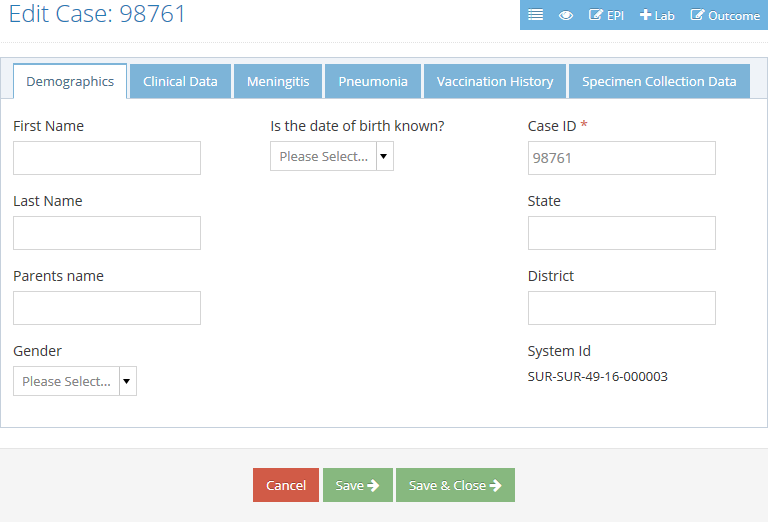
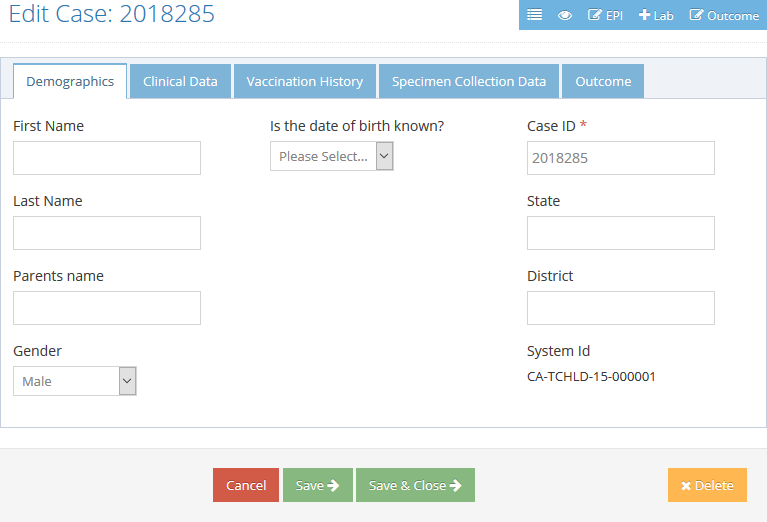
Update documentation
Link sections, document changed behaviour, fix headers without a space after ###, refresh and add new screenshots.

diff --git a/app/Resources/doc/web.md b/app/Resources/doc/web.md
@@ -1,27 +1,48 @@
 Cases and Data Entry
 ====================
 
-1. [Recent Cases list](#recent-cases-list)
-2. [Finding cases](#finding-buttons)
-3. [Creating cases](#creating-cases)
-4. [Modifying cases](#modifying-cases)
+1. [Finding and listing cases](#finding-and-listing-cases)
+2. [Creating cases](#creating-cases)
+3. [Modifying cases](#modifying-cases)
+4. [Deleting cases](#deleting-cases)
 5. [Zero Reporting](#zero-reporting)
 6. [Reports](#reports)
 
-Recent Cases list
------------------
+Finding and listing Cases
+-------------------------
 
 To view the list of cases, click **Data Entry** on the sidebar menu, and then **IBD** or
 **Rotavirus**.
 
 ![Sidebar Menu: Data Entry](images/sidebarDataEntry.png)
 
-Cases are listed in descending order of creation; i.e. newest cases at the top. Only
-cases that your user account has permission to access are included in the Recent Cases list.
+The **Recent Cases** page will be displayed, showing **Create/Edit Case** and **Filters** panes.
+
+![Recent Cases page](images/recentCasesPage.png)
+
+Enter or select the criteria for cases you want to see in the **Filters** panel on the right side
+of the page. The result list will include all cases where the respective field contains whatever you
+type here. You can enter a partial value for **Case ID**.  These fields are not case-sensitive.
+
+In the **Region**, **Country**, and **Site** fields, you can hold down `CTRL` and click to select
+multiple values. The result list will include results that match any of the selected values. Note
+that each of these fields only appears in the **Filters** panel if your user account has been
+administratively configured to allow access to cases with multiple possible values for that field;
+for example, if your account is restricted to cases in a particular country, the ability to filter
+on country would be irrelevant, so the Country field is not displayed.
+
+You can view all recent cases by leaving all the filter fields blank or unselected.
+
+Click **Find** when you are ready to proceed. The page will refresh and the list of matching cases
+will be displayed. Cases are listed in descending order of creation; i.e. newest cases at the top.
+Only cases that your user account has permission to access are included in the Recent Cases list.
 
 ![Recent Cases list](images/recentCases.png)
 
-###Actions buttons
+Any filters you apply remain in effect throughout case creation and editing operations. To clear the
+filters, click the **Reset** button in the **Filters** panel.
+
+### Actions buttons
 
 Actions buttons are displayed in the **Actions** column. To view the details of a specific case in
 the list, click the **View** (eye) button. To edit the case's epidemiology details or outcome, click
@@ -34,8 +55,8 @@ button. Click the gear button in order to see all the Actions buttons.
 
 ![Gear button](images/gearButton.png)
 
-Actions buttons also appear in the upper-right corner of case editing pages. A **List** button is
-included here for returning to the cases list.
+Actions buttons also appear in the upper-right corner of case View and Edit pages. A **List** button
+is included here for returning to the cases list.
 
 ![Actions buttons on edit page](images/actionsButtonsEdit.png)
 
@@ -50,7 +71,7 @@ indicated detail record of the case.
 
 For more information on editing a case, see the **Modifying cases** section below.
 
-###Case completion flags
+### Case completion flags
 
 The **Status** column displays green, orange, or red **EPI** and **LAB** flags. A green flag
 indicates that the associated epidemiology or lab details are complete and have passed error checks.
@@ -59,45 +80,18 @@ present or an error has been found.
 
 ![Case completion flags](images/completionFlags.png)
 
-Finding cases
--------------
-
-To find a specific case, enter or select criteria in the **Filters** panel to the right of the
-Recent Cases list and click **Find**. The list will be refreshed, showing only cases that match your
-filter criteria.
-
-![Filters panel](images/filtersPanel.png)
-
-You can enter partial values for **System ID** and **Case ID**. The result list will include all
-cases where the respective field contains whatever you type here. These fields are not case-
-sensitive.
-
-In the **Region**, **Country**, and **Site** fields, you can hold down `CTRL` and click to select
-multiple values. The result list will include results that match any of the selected values. Note
-that each of these fields only appears in the **Filters** panel if your user account has been
-administratively configured to allow access to cases with multiple possible values for that field;
-for example, if your account is restricted to cases in a particular country, the ability to filter
-on country would be irrelevant, so the Country field is not displayed.
-
-Any filters you apply remain in effect throughout case creation and editing operations. To clear the
-filters and return to the full list of cases, click the **Reset** button in the **Filters** panel.
-
 Creating cases
 --------------
 
-IDB and Rotavirus cases are created from their respective Recent Cases list pages.
+IDB and Rotavirus cases are created from the **Recent Cases** page, which is accessed as described
+under [Finding and listing cases](#finding-and-listing-cases).
 
-
-1. Click the green **Create/Edit** button above the Recent Cases list.
-
-	![Recent Cases Create Button](images/recentCasesCreate.png)
-
-2. In the **Create Case** pop-up dialog, enter the **Case ID**.
+1. In the **Create Case** pane, enter the **Case ID**.
 
    ![Create case dialog](images/createCase.png)
 
-3. The options included in the **Type** drop-down list depend on your user account permissions. If
-**Case** is the only option displayed, select it.
+3. The options included in the **What type of case data?** drop-down list depend on your user
+account permissions. If **Case** is the only option displayed, select it.
   
    If your user account permissions allow it, you may also see **Site Lab**, **RRL** (Regional
    Reference Lab), or **NL** (National Lab) options. If you select one of these options, you will be
@@ -116,13 +110,13 @@ Modifying cases
 ---------------
 
 If you know the Case ID and Site of the case you want to modify, you can go directly to the case
-editing page by the same procedure as described above in the *Creating cases* section. Otherwise,
-locate the case in the Recent Cases list and use the buttons in the **Actions** column, as described
-in **Recent Cases list: Actions buttons** above.
+editing page by the same procedure as described above in the [Creating cases](#creating-cases)
+section. Otherwise, locate the case in the Recent Cases list and use the buttons in the **Actions**
+column, as described in **Recent Cases list: Actions buttons** above.
 
 ![Actions Buttons for Modifying Cases](images/modifyingCasesActionButtons.png)
 
-###Adding or editing lab details
+### Adding or editing lab details
 
 The **Add Lab** or **Edit Lab** button appears in the **Actions** column if your user account has
 permission to add and edit Site Lab details. The **Add RRL** and **Add NL** buttons appear if you
@@ -133,11 +127,22 @@ detail record of the case.
 
 ![Actions Buttons for Lab Details](images/actionsButtonsLabDetails.png)
 
+Deleting Cases
+==============
+
+To delete a case, find it in the Recent Cases list as [described above](#finding-and-listing-cases)
+and click on its EPI edit button. When the case is displayed, click the **Delete** button below the
+details.
+
+![Delete Case](images/caseDelete.png)
+
+A confirmation dialog will be displayed. Click **OK** to delete the case.
+
 Zero Reporting
 ==============
 
-In order for **Consistent Reporting** column in **Site Performance** reports to be accurate, it is
-necessary to tell the system what happened for months with no reports. No reports in a month can
+In order for the **Consistent Reporting** column in **Site Performance** reports to be accurate, it
+is necessary to tell the system what happened for months with no reports. No reports in a month can
 indicate either that the number of cases *was* reported and the number was zero, or that the number
 of cases *was not* reported.
 
@@ -145,20 +150,16 @@ Click **Data Entry** and then **Zero Reporting** on the sidebar menu.
 
 ![Sidebar Menu: Zero Reporting](images/sidebarZeroReporting.png)
 
-Click the **Filters** button on the **Zero Reporting** header.
-
-![Zero Reporting Header](images/zeroReportingHeader.png)
-
 Select the desired **Type** of case (IBD or RotaVirus) and a range of dates, then click **Submit**.
+
+Note that selecting a large date range may cause the table to overflow the right side of the browser
+window and not be displayed neatly.
 
 ![Zero Reporting Filters](images/zeroReportingFilters.png)
 
 A list of Sites will be displayed, along with case counts for each month in the selected range.
 Wherever the number of cases for a site is zero for a given month, a drop-down selector is displayed
 with **Zero** and **Non Report** options available.
-
-Note that selecting a large date range may cause the table to overflow the right side of the browser
-window and not be displayed neatly.
 
 ![Zero Reporting: Selecting Options](images/zeroReportingSelecting.png)
 

diff --git a/app/Resources/doc/sysadmin.md b/app/Resources/doc/sysadmin.md
@@ -4,10 +4,10 @@ Administration
 Access the system Administration page by clicking **Administration** in the sidebar menu and then
 **Administration** in the sub-menu.
 
-1. All sections
-2. User specific
-3. Reference lab specific
-4. Import Map specific
+1. [All sections](#all-sections)
+2. [User specific](#user-specific)
+3. [Reference lab specific](#reference-lab-specific)
+4. [Import Map specific](#import-map-specific)
 
 All sections
 ------------
@@ -34,14 +34,20 @@ search.
 The currently displayed list of items can be downloaded in json, xml, csv, or xls format using the
 Download links provided at the bottom of the list.
 
-###Adding and editing items
+![Admin List Download](images/adminListDownload.png)
+
+### Adding and editing items
 
 A new item can be added by clicking the **Add new** button in the appropriate section of the
 **Administration** page, the upper-right corner of the corresponding list page, or the upper-right
 corner of any corresponding **Create** or **Edit** page.
 
+![Add New Button](images/addNewButton.png)
+
 Items are edited by clicking their respective **Edit** buttons in the **Actions** column of the list
 page.
+
+![Edit Button](images/listEditButton.png)
 
 The field entry areas of **Create** and **Edit** pages are the same, and allow you to enter
 information related to the item.
@@ -67,7 +73,7 @@ confirmation.
 
 ![Edit user page buttons](images/editUserPageButtons.png)
 
-###Deleting items
+### Deleting items
 
 Note that **Country**, **Site**, and **User** items have an **Active** checkbox. These items cannot
 be deleted if there still exist case records with references to them, so the ability to deactivate
@@ -86,7 +92,7 @@ filtering or pagination.*
 User Specific
 -------------
 
-###Access Restrictions
+### Access Restrictions
 
 The **Access Restrictions** section of the **Create** or **Edit** user page can be used to limit
 user access to specific categories of cases or the ability to import and export data for specific
@@ -95,23 +101,23 @@ restrictions that apply to the user.
 
 ![Access Restrictions](images/accessRestrictions.png)
 
-Use the **Type** drop-down to select a category on which to limit access.
+Use the **Access Level** drop-down to select a category on which to limit access.
 
-Click the **Options**
-field to select one or more actions that the user will be allowed to perform on the **Target**. An
+Click the **Creation Rights** field to select one or more actions that the user will be allowed to
+perform on the item that you will select in the **Specific - Site /Country /Region** field. An
 option you have already added can be removed if necessary by clicking the **x** next to it. Leaving
-the **Options** field empty will give the user view-only access to the **Target**.
+the **Access Level** field empty will give the user view-only access to the **Target**.
 
-Begin typing the specific criterion under **Target**. Matching criteria from the relevant internal
-list will be offered as autocomplete suggestions.
+Begin typing the specific criterion under **Specific - Site /Country /Region**. Matching criteria
+from the relevant internal list will be offered as autocomplete suggestions.
 
 Logically, each Access Restriction should be thought of as an *allow only* limitation. To allow
 access to multiple specific criteria in a given category, add additional restrictions.
 
-**Access Restrictions** can be deleted by enabling the **Delete** checkbox next to them and then
-saving the user information with a **Create** or **Update** button.
+An Access Restriction can be deleted by enabling the **Delete** checkbox next to it and then
+saving the user information with the **Create** or **Update** button.
 
-###Administrator User Types
+### Administrator User Types
 
 There are three levels of administrator users: **Super Administrators**, **Regional
 Administrators**, and **Country Administrators**.
@@ -147,14 +153,14 @@ add an Access Restriction to limit access to the appropriate Country.
 
 ![Country Administrator Dashboard](images/countryAdminDashboard.png)
 
-Reference Labs Specific
------------------------
+Reference Lab Specific
+----------------------
 
 You can select multiple countries in the **Countries** drop-down list. Select one at a time, then
 click in the field again to select another. Click the **x** next to any country that you want to
 remove from the field.
 
-Import Maps Specific
---------------------
+Import Map Specific
+-------------------
 
 Please refer to [import.md](import.md) for full documentation of import/export functions.

diff --git a/app/Resources/doc/import.md b/app/Resources/doc/import.md
@@ -11,7 +11,7 @@ database columns.
 When creating a new map the following fields are available: *name, notes, class, version, headerRow,
 caseLinker, labPreference, file*.
 
-###Lab Preference Field
+### Lab Preference Field
 
 The lab preference, and file upload fields are only available on new map creation. The lab
 preference field is used only when the map creation receives a file. The purpose of the field is to
@@ -19,7 +19,7 @@ tell the system what kind of serotype data to link to. The reason for this is th
 national lab result are identical to those in a reference lab. Thus this field tells the map builder
 to select by default one over the other when it finds matching field names.
 
-###Name, Class & Version Fields
+### Name, Class & Version Fields
 
 Everywhere else in the system the map will be referred to through the combination of the name, class
 and version fields. For example if you create a map with name EMR EPI, class IBD and version 1, the
@@ -32,12 +32,12 @@ region for whatever reason, or need to deal with a historical file. The version 
 you could put the year or something like 'missing X'. Thus you could get a map named 'EMR EPI (IBD
 2013-Missing DOB) for example.
 
-###Header Row Field
+### Header Row Field
 
 This tells the map builder which row of the source file contains the column names. All rows before
 this row will be ignored.
 
-###Case Linker Field
+### Case Linker Field
 
 The case linker field determines how the data gets linked to a particular case. The two choices are
 **Case Id and Site Code** and **Case Id and Verify Country**. The Case Id and Site Code will require

diff --git a/app/Resources/doc/index.md b/app/Resources/doc/index.md
@@ -3,5 +3,3 @@
 3. [Web Based System](web.md)
 4. [Import / Export](import.md)
 5. [Api](api.md)
-6. [Admins](admin.md)
-
